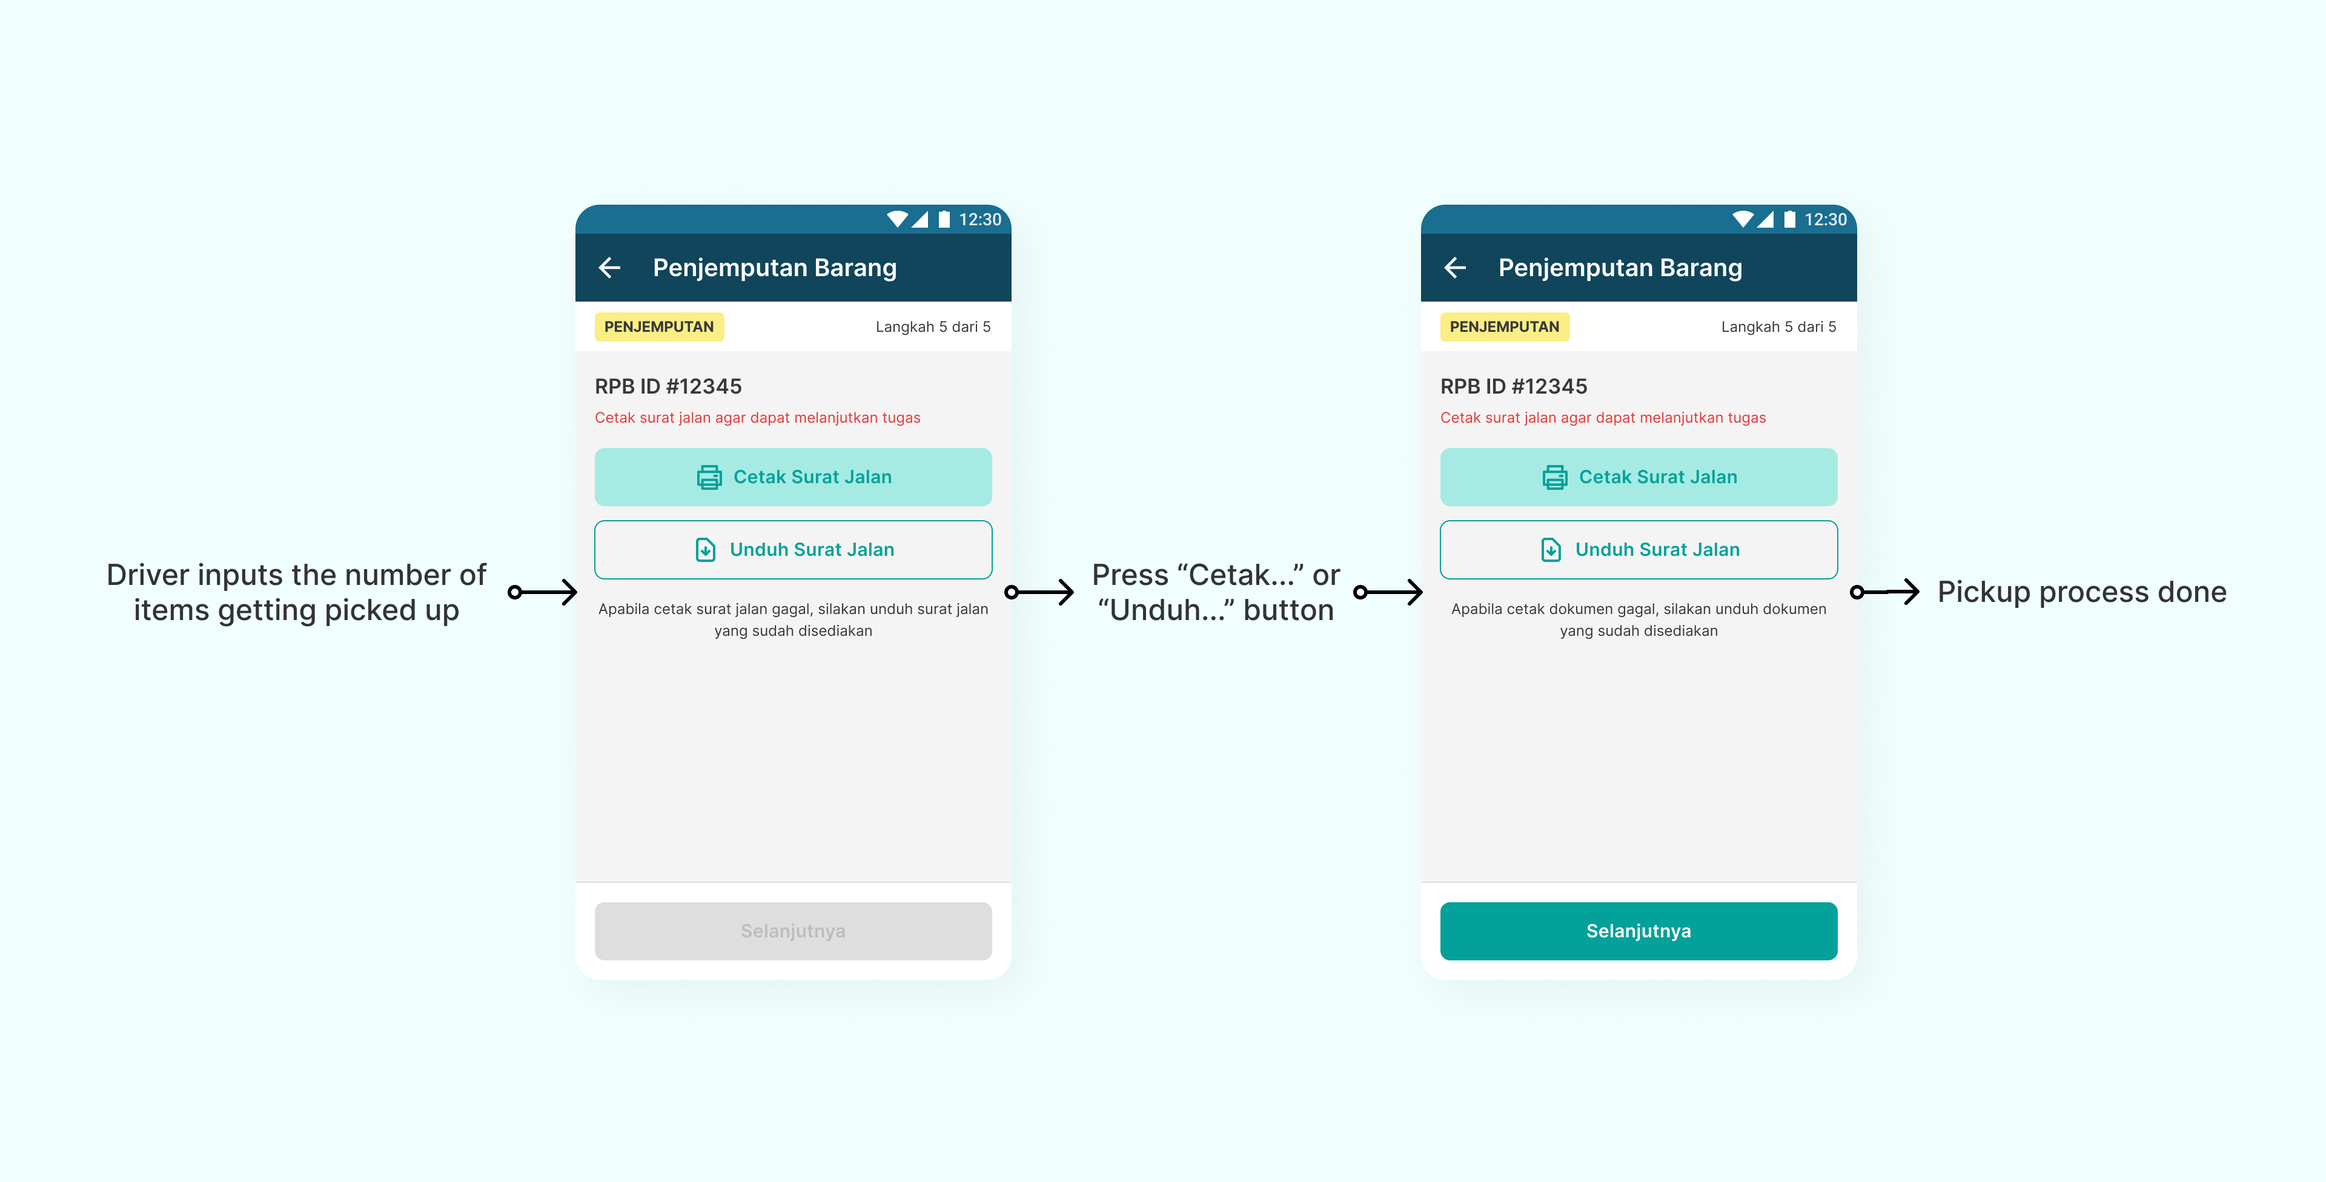
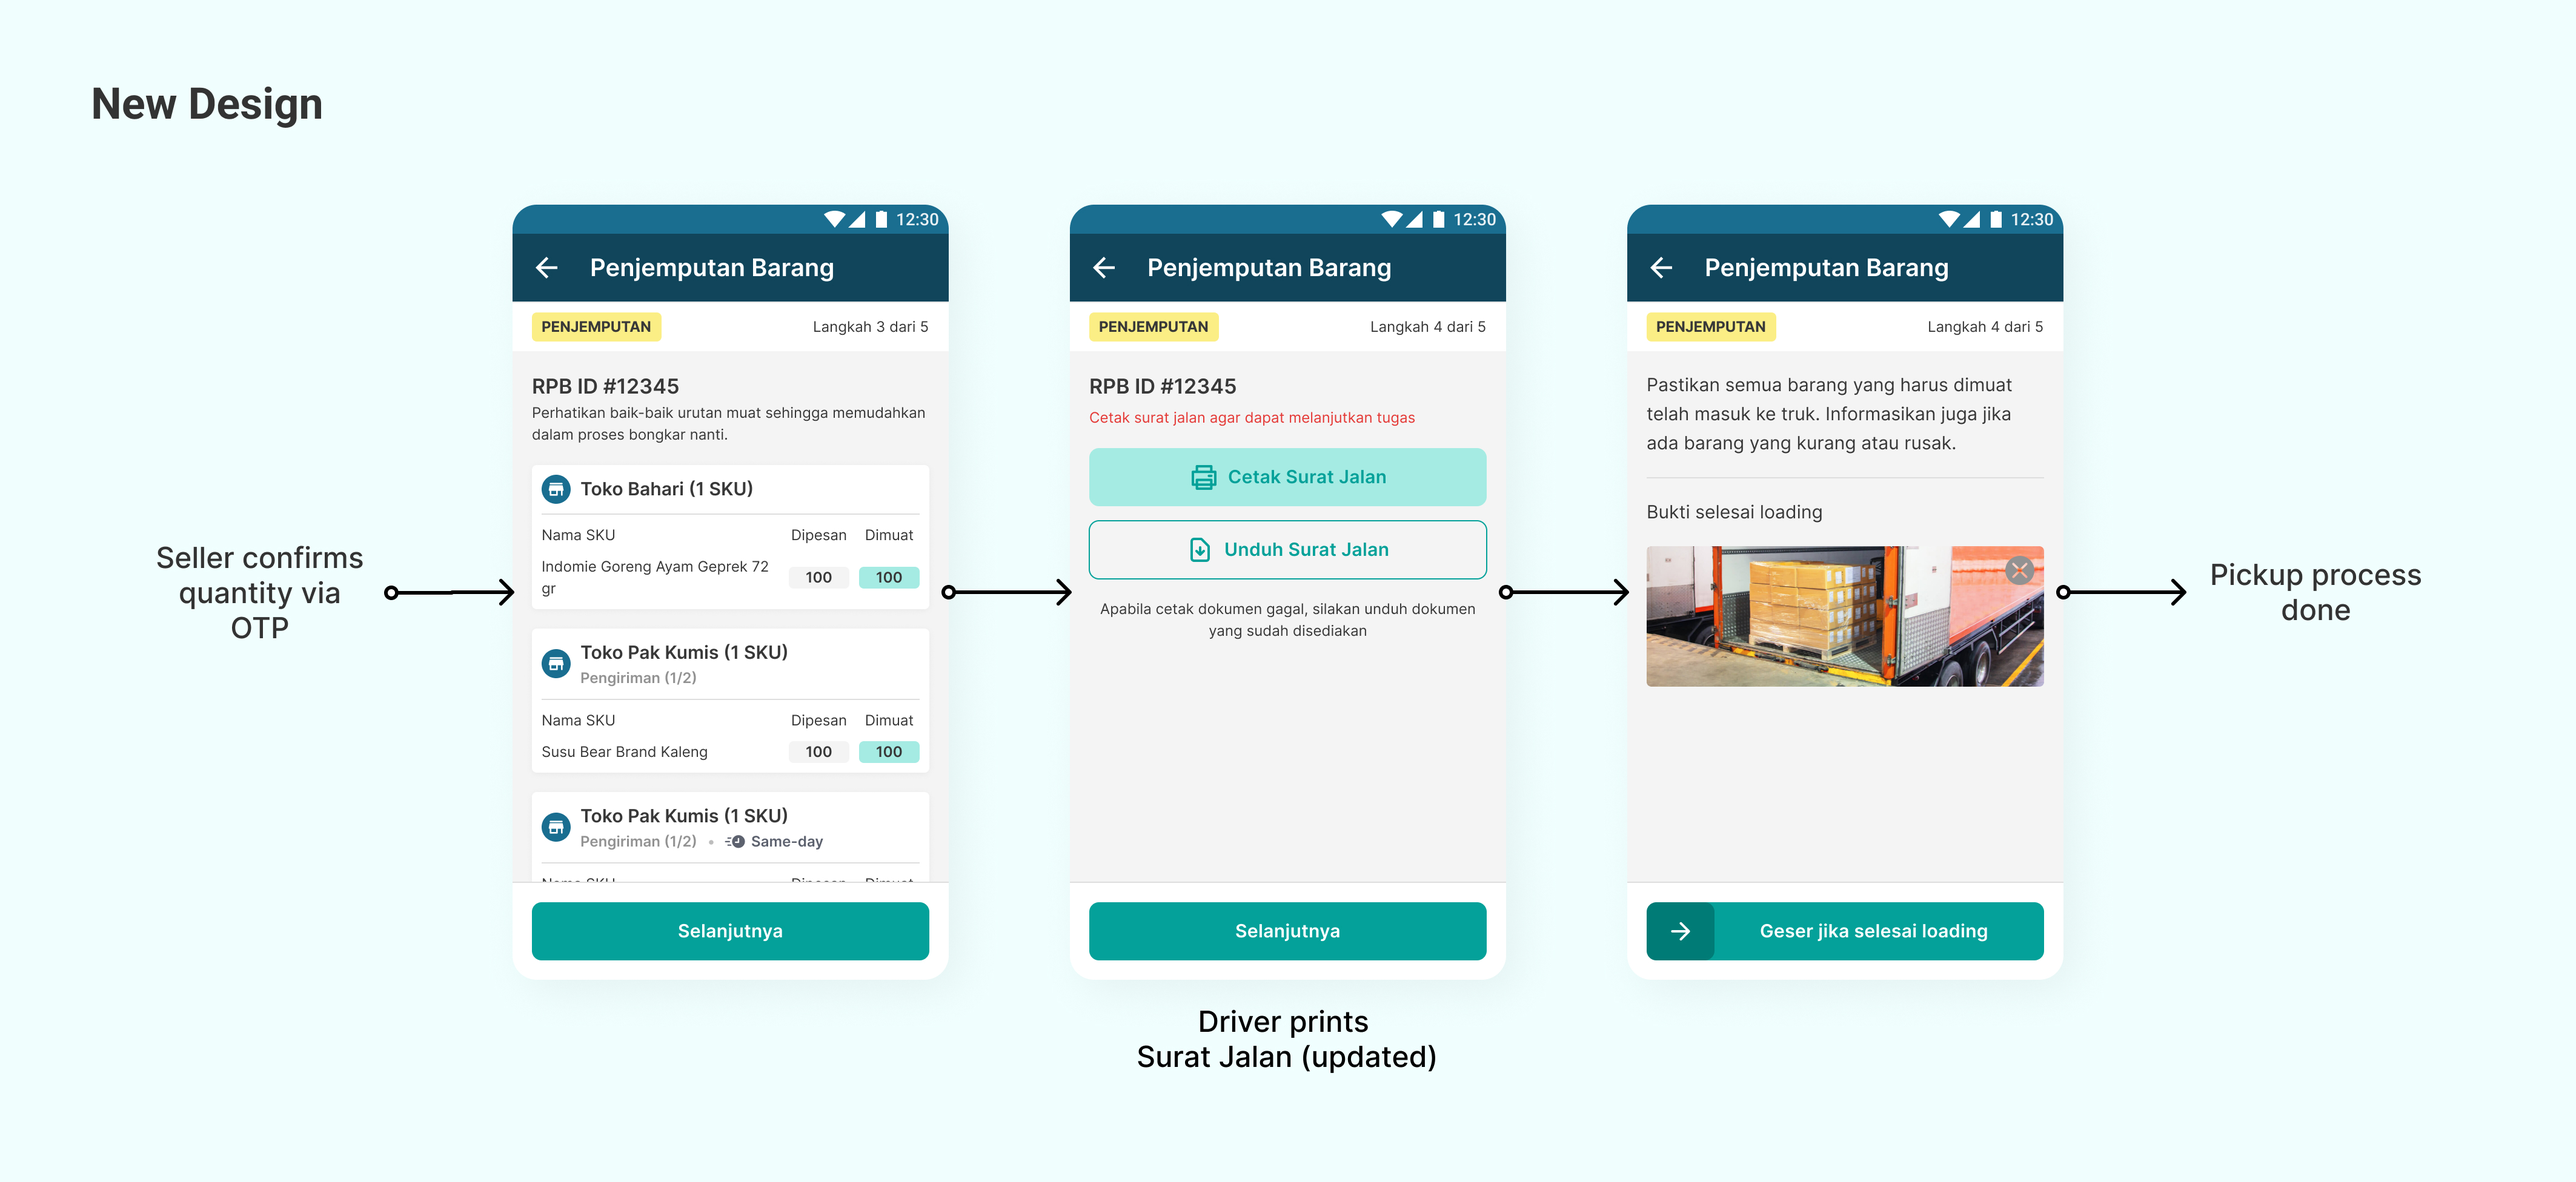
improved content for gudangada portfolio

diff --git a/posts/work/5-partial-pickup-improvement-gudangada.md b/posts/work/5-partial-pickup-improvement-gudangada.md
@@ -1,8 +1,8 @@
 ---
 title: "Partial Pickup Improvement"
 metaTitle: "Partial Pickup Improvement"
-desc: "Based on Logistics Ops’s record, there were many disputes about the quantity of returned goods every month. To fix this, we decided to improve the pickup and return flow."
-metaDesc: "Based on Logistics Ops’s record, there were many disputes about the quantity of returned goods every month. To fix this, we decided to improve the pickup and return flow."
+desc: "Based on Marketplace Ops’s record, there were many disputes about the quantity of returned items to Seller every month. Hence, to eliminate data discrepancies, we decided to improve the pickup and return flow of the Driver App."
+metaDesc: ""
 previewImg: "images/GudangAda/Cover.jpg"
 company: "GudangAda"
 role: "Product Designer"
@@ -29,18 +29,18 @@ Product Designer. My workflow includes creating a research plan, user interviews
 
 ## Problem Statement
 
-GudangAda currently relies on printed documents to track delivered and returned goods. Following delivery, the Buyer confirms receipt, the Seller acknowledges the return goods and Gross Merchandise Value (GMV), and then the Driver manually inputs this information into the GudangAda Driver App. However, this reliance on manual data entry generates problems:
+GudangAda currently relies on printed documents to track delivered and returned items. Following delivery, the Buyer confirms receipt, the Seller acknowledges the return items and Gross Merchandise Value (GMV), and then the Driver manually inputs this information into the GudangAda Driver App. However, this reliance on manual data entry generates problems:
 
-**_There were over 20 disputes about the quantity of returned goods every month. The number of goods the Seller received differs from the Driver's reported number. A dispute can take days to resolve and require significant human resources as multiple actors can be affected by this problem._**
+**_There were over 20 disputes about the quantity of returned items every month. The number of items the Seller received differs from the Driver's reported number. A dispute can take days to resolve and require significant human resources as multiple actors can be affected by this problem._**
 
 We assumed that there could be a miss-input by the Driver when transferring information from the document to our app. No one was there to correct them because
 
 - Sellers primarily reference the signed physical documents, often overlooking in-app data.
-- Logistics operations cannot monitor individual Driver data entry closely.
+- Ops cannot monitor individual Driver data entry closely.
 
-This problem was only discovered after the Seller complained.
+This problem was only discovered after the Seller complained to Marketplace Ops.
 
-From that assumption, we tried to fix this by finding out what kind of interaction we needed to build between Seller and Driver so that both would make sure that the reported number was correct.
+From that assumption, we tried to fix this by finding out what kind of interaction we needed to provide between Seller and Driver so that both would make sure that the reported number was correct.
 
 ## Process Summary
 
@@ -48,19 +48,21 @@ From that assumption, we tried to fix this by finding out what kind of interacti
 
 ## Research
 
+> How might we eliminate discrepancies between the reported and the actual number of items returned?
+
 ### **Have a chat with the Logistics Ops Team**
 
-Since this problem affects Logistics Ops the most, we decided to learn more about the disputes, how and why they happened, and what they are currently doing to fix this problem.
+Since this problem involves Logistics Ops the most, we decided to learn more about the disputes, how and why they happened, and what they are currently doing to fix this problem.
 
 **Key Finding(s)**
 
-- There are several disputes caused by the Driver inputting incorrectly. However, most disputes come from the Driver ignoring the system's item prioritization during Partial Pickups, leading to discrepancies between delivered and recorded quantities.
-  - Partial Pickups: The system automatically adjusts item allocation to prioritize specific Buyers when Sellers provide incomplete orders (e.g., 8 boxes of milk instead of 10).
+- There are several disputes caused by the Driver inputting incorrectly. However, most disputes come from the Driver ignoring the system's item prioritization during Partial Pickup, leading to discrepancies between delivered and recorded quantities.
+  - Partial Pickup: The system automatically adjusts item allocation to prioritize specific Buyers when Sellers provide incomplete orders (e.g., 8 boxes of milk instead of 10).
 - Logistics Ops compares signed document photos with database entries to identify discrepancies. If discrepancies exist, Ops manually adjusts the database to match the signed documents.
 
 ### **Prioritizing**
 
-Our initial assumption was not spot on. While miss-input played a role, interviews revealed many discrepancies from Drivers ignoring the system's item prioritization during Partial Pickups. To address these findings effectively, we've divided the project into two iterations:
+Our initial assumption was not spot on. While miss-input played a role, interviews revealed many discrepancies from Drivers ignoring the system's item prioritization during Partial Pickup. To address these findings effectively, we've divided the project into two iterations:
 
 - **First Iteration**: Ensure Drivers consistently follow the intended item prioritization made by the system. We will call this Partial Pickup Improvement project.
 - **Second Iteration**: Minimize data entry errors in return processes. We will call this Return Task Improvement project.
@@ -68,6 +70,8 @@ Our initial assumption was not spot on. While miss-input played a role, intervie
 ## Partial Pickup Improvement
 
 ### Research
+
+> How might we help Drivers to adhere to the intended item prioritization made by the system?
 
 #### **Seller and Driver visit**
 
@@ -79,24 +83,30 @@ To gain in-depth insights into the pickup and return process, we conducted field
   - Surat Jalan: A document that serves as proof of delivery for the Buyers.
   - Pick List: A document that lists down the specific items the Sellers need to pick and their respective quantities.
 - Sellers organize items by Buyer store for LIFO loading (last in, first out) to align with Drivers' preferences. The Pick List's lack of store-based grouping made them use Surat Jalan instead.
-- During Partial Pickup, Sellers strike through the listed items on the Surat Jalan and writing in the correct quantities. This handwritten modification then serves as confirmation for the buyer, who then signs the document.
-- Drivers prefer printed documents over digital interfaces. This leads to sole dependence on Surat Jalan and, thus, a lack of awareness regarding system-generated reprioritization during Partial Pickups.
+- During Partial Pickup, Sellers strike through the listed items on the Surat Jalan and writing in the correct quantities. This handwritten modification then serves as confirmation for the Buyer, who then signs the document.
+- Drivers prefer printed documents over digital interfaces. This leads to sole dependence on Surat Jalan and, thus, a lack of awareness regarding system-generated reprioritization during Partial Pickup.
 - Drivers often deviate from system-generated delivery routes, relying on Surat Jalan for Buyer addresses because they believe they have more efficient routes.
+
+**Below is the simplified graphic of the problem based on what we know from Logistics Ops, Sellers and Drivers**
+
+![Seller and Driver Behavior](/images/GudangAda/SellerDriverBehavior.jpg "Seller and Driver Behavior")
 
 ### Design
 
 Based on the findings, we would focus on these 2 key areas:
 
-- **Seller**: Enabling Seller to prepare the goods efficiently
+- **Seller**: Enabling Seller to prepare the items efficiently
 - **Driver**: Increase Driver’s adherence to the system’s item prioritization
 
 #### Seller-facing
 
 **Item grouping by Buyer Store**
 
-![Revised Pick List](/images/GudangAda/RevisedPicklist.jpg "Revised Pick List")
+![Existing Pick List](/images/GudangAda/ExistingPicklist.jpg "Existing Pick List")
 
-Previously, Sellers only had a flat list of all goods to pick up. Now, the Pick List displays items grouped by the buyer after the reprioritization, eliminating the need for the Surat Jalan.
+Sellers only had a flat list of all items to pick up. Now, the digital Pick List also displays items grouped by the Buyer after the reprioritization, eliminating the need for the Surat Jalan because the Pick List has what Surat Jalan offers as well.
+
+![Revised Pick List](/images/GudangAda/RevisedPicklist.jpg "Revised Pick List")
 
 #### Driver-facing
 
@@ -104,23 +114,32 @@ Previously, Sellers only had a flat list of all goods to pick up. Now, the Pick 
 
 ![Download Document Page](/images/GudangAda/DownloadDocumentPage.jpg "Download Document Page")
 
-To prevent Drivers from relying solely on Surat Jalan documents for pickups, we've disabled the ability to download them before the reprioritization. This drives them to use the Driver App, at least until the item verification and reprioritization is done, ensuring real-time updates and improving accuracy. If they really need printed document, we still provide them with a printable Pickup List.
+To prevent Drivers from relying solely on Surat Jalan documents for pickup, we've disabled the ability to download them before the reprioritization. This drives them to use the Driver App, at least until the item verification and reprioritization is done. If they really need printed document, we still provide them with a printable Pick List.
 
 **Pickup Process**
 
+![Existing Design](/images/GudangAda/BeforePrintSJ.jpg "Existing Design")
+
+Instead of printing beforehand, Drivers will now print the Surat Jalan directly within the pickup process. This allows the document to be generated with up-to-date information, reflecting the number of items picked up.
+
 ![Print Surat Jalan Step](/images/GudangAda/PrintSJStep.jpg "Print Surat Jalan Step")
 
-Instead of printing beforehand, Drivers will now print the Surat Jalan directly within the pickup process. This allows the document to be generated with up-to-date information, reflecting the number of goods picked up.
+We've also redesigned the Surat Jalan layout to include the actual number of items picked up, not just the initial order quantity, eliminating the need to strike though manually.
 
 ![Surat Jalan Document](/images/GudangAda/SJDocument.jpg "Surat Jalan Document")
 
-We've also redesigned the Surat Jalan layout to include the actual number of goods picked up, not just the initial order quantity, eliminating discrepancies with what the buyer receives.
-
 ### Testing
 
-Following organization restructuring, we could not proceed with the planned testing and second phase of the project. However, we'd like to share our planned approach for testing.
+Following organization restructuring, we could not proceed with the planned testing and second phase of the project (Return Task Improvement). However, we'd like to share our planned approach for testing.
 
-We would conduct a concept test to identify user feedback on the Partial Pickup Improvement concept and to understand its potential for resolving partial pick-up issues. We would select one TGA seller and two MP Sellers (along with the Drivers assigned for each store) who have experienced data discrepancies due to partial pick-up.
+We would conduct a concept test to identify user feedback on the Partial Pickup Improvement concept and to understand its potential for resolving Partial Pickup issues and its usability in improving the item preparation process. We would select one TGA seller and two MP Sellers (along with the Drivers assigned for each store) who have experienced data discrepancies due to Partial Pickup.
 
-Concept test
-Using a concept test with the Buyer’s Pick List Page and Driver’s Driver App, we will gather user perceptions and feedback on the Partial Pickup Improvement concept to assess its potential for solving partial pick-up problems and its usability in improving the item preparation process.
+## Personal Takeaways
+
+### Designing for Drivers
+
+The thing about designing for GudangAda's Drivers is that we often assume things based on what we know, which in most cases are drivers near us: online motorbike/taxi drivers. However, although they are both categorized as drivers, we can't just assume that their workload and behavior are the same.
+
+As we followed the Drivers doing their jobs, this assumption about our Drivers' workflow proved incomplete and misleading. Through the visit, we observed that they face a unique challenge: Their work is physically challenging and borderline dangerous (for their phones). They load and unload heavy items in various locations, making phone use impractical and risky. We now understand why they prefer looking at the printed document instead of the Driver App.
+
+However, we need them to understand that, especially during Partial Pickup, they must follow the reprioritization done by the system which is only updated on the app. Bridging this online-to-offline behavior is the challenge we really hoped we could solve. This project shows the importance of going beyond assumptions and actively try to understand user context to create a balance between meeting the tech expectations and also benefiting the users.
